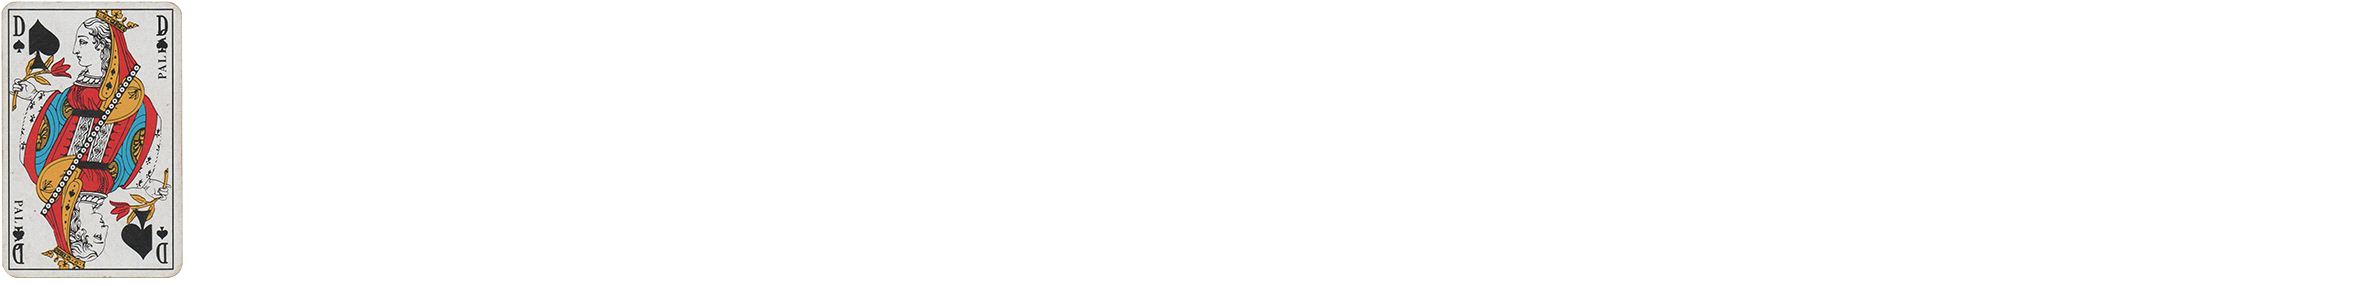
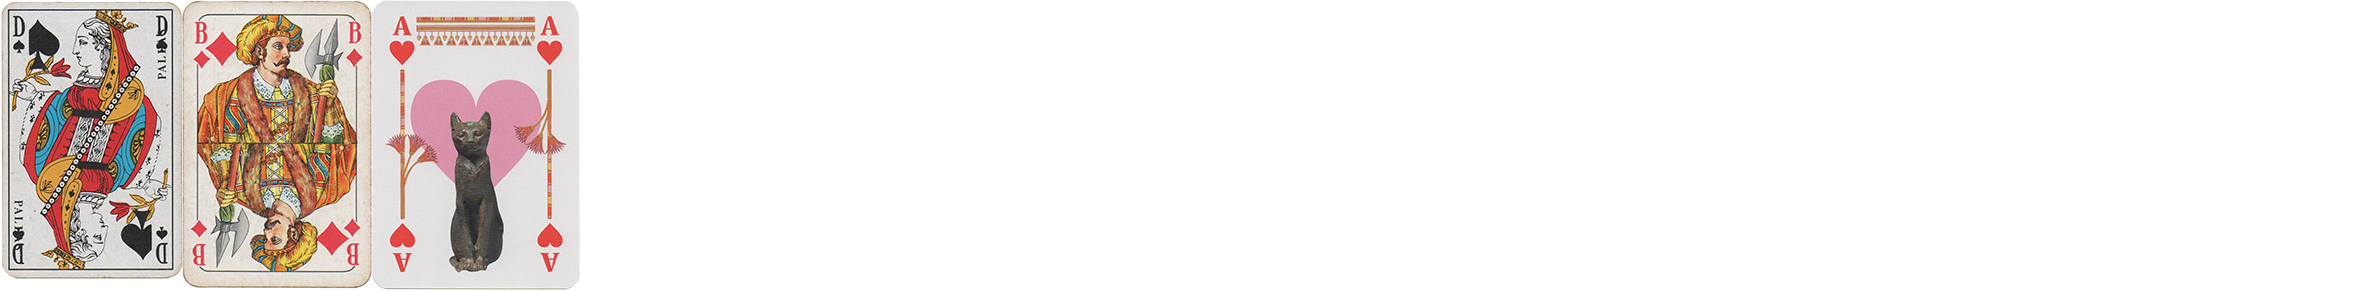
feat(Playing cards): add new cards

Changed region(s): [[0.0, 0.0, 0.2494, 1.0]]

diff --git a/src/app/components/item-pages/PlayingCardsPage/index.tsx b/src/app/components/item-pages/PlayingCardsPage/index.tsx
@@ -962,6 +962,16 @@ const PlayingCardsPage: React.FunctionComponent<ItemPageProps> = ({className, it
               height={1001}
               imgs={playingCards11Imgs}
             />
+            <PlayingCard
+              title="Rommé 64"
+              href="https://www.wopc.co.uk/germany/ass/north-german-pattern"
+              x={657}
+              y={0}
+              width={684}
+              height={1045}
+              imgs={playingCards11Imgs}
+            />
+            <PlayingCard title="Ancient Egypt" x={1341} y={0} width={750} height={1044} imgs={playingCards11Imgs} />
 
             {/* unusual */}
             <PlayingCard
